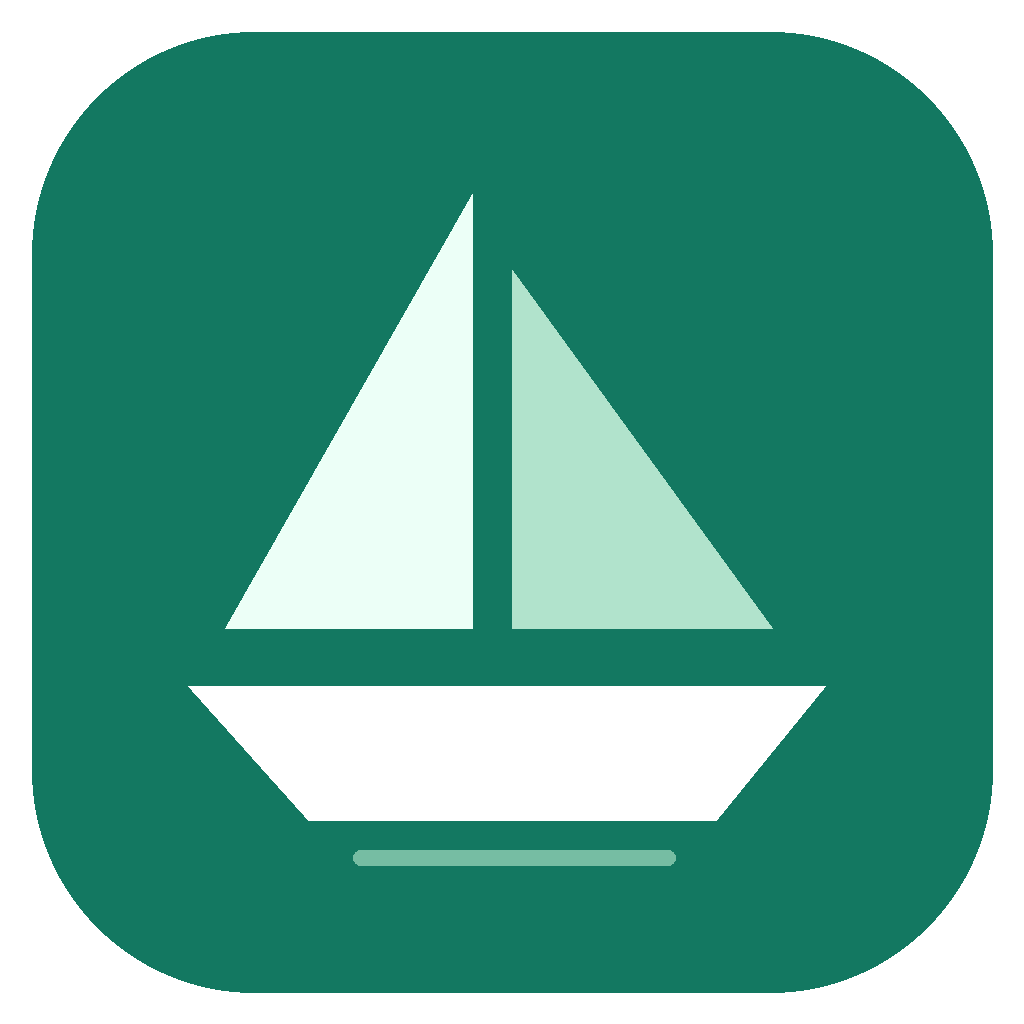
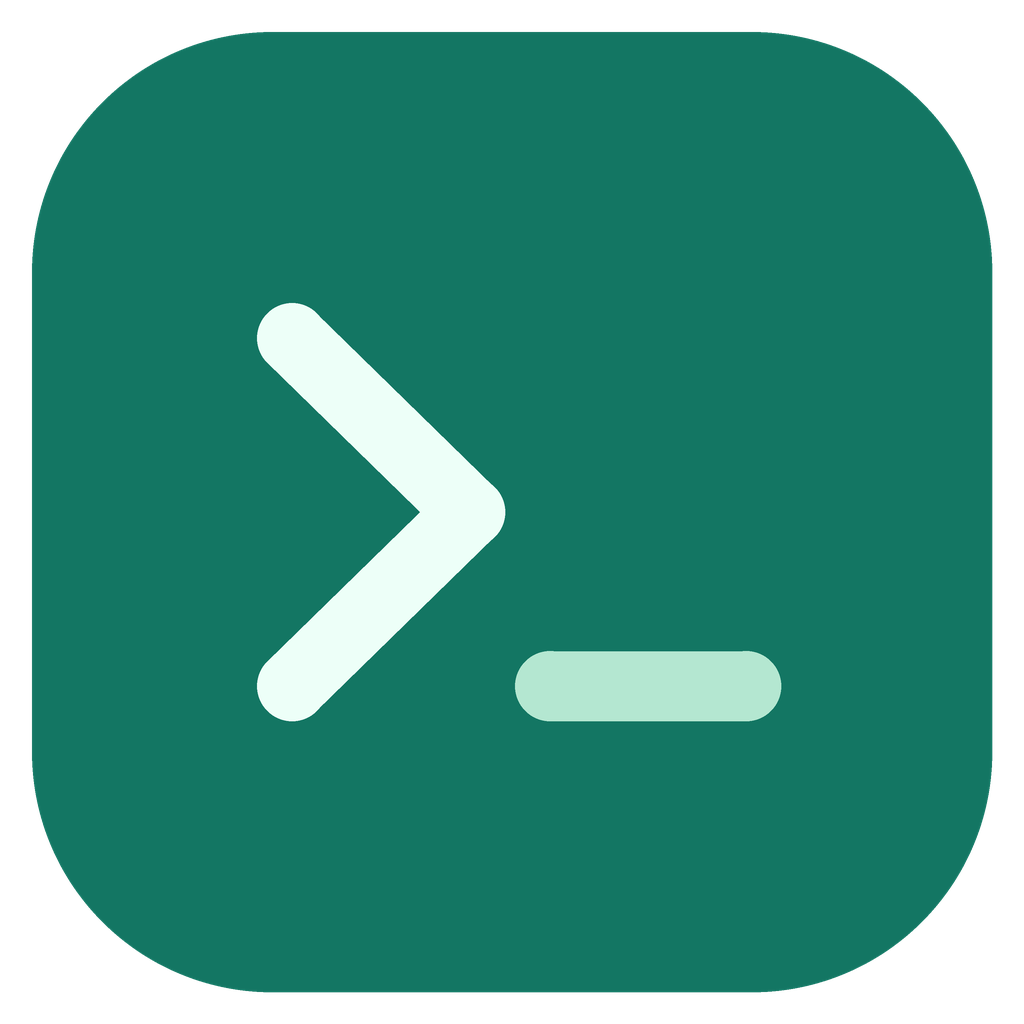
chore(branding): rename API client to CurlGo

diff --git a/view.go b/view.go
@@ -6,7 +6,7 @@ import (
 	"strconv"
 	"strings"
 
-	"github.com/echoVic/qingzhou-api/internal/core"
+	"github.com/echoVic/curlgo/internal/core"
 	"github.com/egoist/mygo/ui"
 	"github.com/egoist/mygo/ui/editor"
 )
@@ -38,9 +38,9 @@ func (a *application) view(c *ui.Context) {
 	}
 	ui.Column(c).Fill().Background(t.Background).Disabled(a.closing).Children(func() {
 		ui.Row(c).Height(62).Padding(16, 22).Gap(12).BorderWidth(0, 0, 1, 0).BorderColor(t.Border).Children(func() {
-			ui.Box(c).Size(30, 30).Radius(10).Background(t.Accent).Center().Children(func() { ui.Text(c, "舟").Bold().TextColor(t.AccentText) })
-			ui.Text(c, "轻舟 API").FontSize(17).Bold()
-			ui.Text(c, "轻一点，专注请求本身").TextColor(t.TextMuted).FontSize(12)
+			ui.Box(c).Size(30, 30).Radius(10).Background(t.Accent).Center().Children(func() { ui.Text(c, ">").Bold().TextColor(t.AccentText) })
+			ui.Text(c, "CurlGo").FontSize(17).Bold()
+			ui.Text(c, "贴入请求，马上开始").TextColor(t.TextMuted).FontSize(12)
 			ui.Spacer(c)
 			ui.Text(c, "本地离线工作区").TextColor(t.Accent).FontSize(12)
 			ui.Select(c.Key("theme"), &a.workspace.Settings.Theme, []string{"浅色", "深色"}).Width(78).Label("主题").OnChange(a.persist)

diff --git a/main.go b/main.go
@@ -7,7 +7,7 @@ import (
 	"os"
 	"path/filepath"
 
-	"github.com/echoVic/qingzhou-api/internal/core"
+	"github.com/echoVic/curlgo/internal/core"
 	"github.com/egoist/mygo"
 	"github.com/egoist/mygo/ui"
 )
@@ -35,7 +35,7 @@ func main() {
 		}
 		return
 	}
-	mygo.App.SetName("轻舟 API")
+	mygo.App.SetName("CurlGo")
 	if !mygo.App.RequestSingleInstanceLock() {
 		return
 	}
@@ -46,6 +46,7 @@ func main() {
 			mygo.App.Quit()
 			return
 		}
+		// Keep the original data directory so existing drafts and history survive the rename.
 		store, err := core.OpenStore(filepath.Join(dir, "QingzhouAPI"))
 		if err != nil {
 			mygo.Dialog.Error("无法打开本地工作区", err.Error())
@@ -66,7 +67,7 @@ func main() {
 				a.saveStatus = "数据不可读：当前为临时会话，不覆盖原文件"
 			}
 		}
-		a.win = mygo.NewWindow(mygo.WindowOptions{Title: "轻舟 API", Width: 1200, Height: 820, MinWidth: 940, MinHeight: 680, Content: ui.View(a.view)})
+		a.win = mygo.NewWindow(mygo.WindowOptions{Title: "CurlGo", Width: 1200, Height: 820, MinWidth: 940, MinHeight: 680, Content: ui.View(a.view)})
 		a.updates = a.win.Update
 		a.closeNative = a.win.Close
 		mygo.App.OnSecondInstance(func(_ []string, _ string) {

diff --git a/view_test.go b/view_test.go
@@ -8,7 +8,7 @@ import (
 	"testing"
 	"time"
 
-	"github.com/echoVic/qingzhou-api/internal/core"
+	"github.com/echoVic/curlgo/internal/core"
 	"github.com/egoist/mygo/ui"
 )
 
@@ -97,6 +97,11 @@ func TestApplicationView(t *testing.T) {
 	t.Run("初始布局名称地址输入与新建", func(t *testing.T) {
 		a, _ := testApp(t)
 		tt := ui.NewTester(a.view, 1200, 820)
+		for _, text := range []string{"CurlGo", ">", "贴入请求，马上开始"} {
+			if !tt.HasText(text) {
+				t.Fatalf("初始界面未显示品牌文本 %q", text)
+			}
+		}
 		r, ok := tt.Find("请求头内容")
 		if !ok || r.H < 60 {
 			t.Fatalf("请求头编辑区不可用：%+v", r)

diff --git a/app.go b/app.go
@@ -10,7 +10,7 @@ import (
 	"strings"
 	"time"
 
-	"github.com/echoVic/qingzhou-api/internal/core"
+	"github.com/echoVic/curlgo/internal/core"
 	"github.com/egoist/mygo"
 	"github.com/egoist/mygo/ui"
 	"github.com/egoist/mygo/ui/editor"

diff --git a/app_test.go b/app_test.go
@@ -15,7 +15,7 @@ import (
 	"time"
 
 	"github.com/coder/websocket"
-	"github.com/echoVic/qingzhou-api/internal/core"
+	"github.com/echoVic/curlgo/internal/core"
 	"github.com/egoist/mygo"
 )
 

diff --git a/README.md b/README.md
@@ -1,6 +1,6 @@
-# 轻舟 API
+# CurlGo
 
-MyGo 0.5 原生离线 API 客户端。打开即用，无需账户或先建项目，应用自身不连接云端服务。
+轻量离线 API 客户端，基于 MyGo 0.5 原生 UI。打开即用，无需账户或先建项目，应用自身不连接云端服务。
 
 ## 可以做什么
 
@@ -26,7 +26,7 @@ MyGo 0.5 原生离线 API 客户端。打开即用，无需账户或先建项目
 
 ## 本地存储
 
-macOS 数据保存在 `~/Library/Application Support/QingzhouAPI/`；其他平台使用 Go 的用户配置目录。`workspace.json` 保存草稿、收藏、历史和环境配置；`workspace.json.bak` 保留上一份有效内容。后台合并保存、同步文件、原子替换，关窗前完成保存。损坏原件会保留，并显示恢复提示；无法恢复时进入临时会话，避免覆盖原件。
+macOS 数据保存在 `~/Library/Application Support/QingzhouAPI/`；其他平台使用 Go 的用户配置目录。CurlGo 保留初版数据目录名称，已有草稿、收藏与历史可继续读取。`workspace.json` 保存草稿、收藏、历史和环境配置；`workspace.json.bak` 保留上一份有效内容。后台合并保存、同步文件、原子替换，关窗前完成保存。损坏原件会保留，并显示恢复提示；无法恢复时进入临时会话，避免覆盖原件。
 
 数据为本地明文，目录权限 0700、文件权限 0600。分享或提交数据文件前请检查请求凭证与环境值。历史不保存响应正文。客户端无遥测、自动更新或云同步。
 
